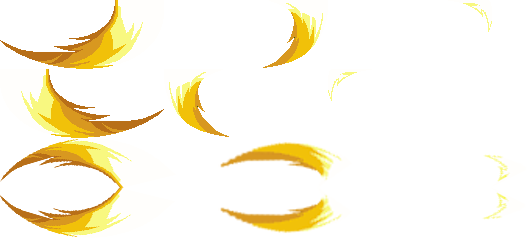
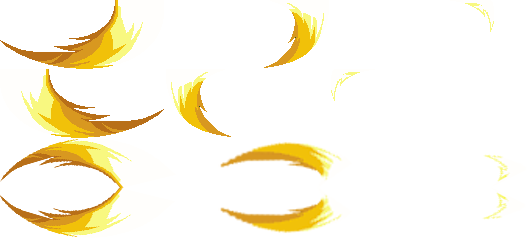
toush up FX spritesheet

diff --git a/enemy.js b/enemy.js
@@ -16,12 +16,14 @@ function Enemy(game, spriteSheet, fxSpritesheet, primaryAnimType, secondaryAnimT
     this.xSpeed = 0;
     this.ySpeed = 0;
     this.direction = 'Down';
+    this.attackFX = 'slash'
     this.state = "walkDown";
     this.safeDist = 63;
     this.attAnimationSpeed = 0.07;
     entityAnimationInit(this, spriteSheet, spriteSheet, primaryAnimType);
-    secondaryAnimationInit(this, fxSpritesheet, secondaryAnimType);
+    altAnimationInit(this, fxSpritesheet, secondaryAnimType);
     this.currAnimation = this.animations[this.state];
+    this.currAltAnimation = this.altAnimations[this.attackFX + this.direction];
     this.hitbox = new Hitbox(this.x, this.y, hitboxHeight, hitboxWidth, true);
     this.hurtbox = new Hitbox(0, 0, 0, 0, false);
 }
@@ -52,6 +54,7 @@ Enemy.prototype.update = function() {
 Enemy.prototype.draw = function() {
     if(!this.game.onTitleScreen && !this.game.gameOver) {
         this.currAnimation.drawFrame(this.game.clockTick, this.ctx, this.x, this.y);
+        if(this.currAltAnimation) this.currAltAnimation.drawFrame(this.game.clockTick, this.ctx, this.x, this.y);
         Entity.prototype.draw.call(this);
     }
 };
@@ -116,6 +119,7 @@ function updateEnemyAnimation(enemy) {
 
     if(!enemy.isAttacking || enemy.currAnimation.elapsedTime == 0) {
         direction = getDirToFacePlayer(enemy);
+        enemy.currAltAnimation = enemy.altAnimations[enemy.attackFX + direction];
         if(distance(enemy.game.player, enemy) > enemy.safeDist) {//should the enemy be walking towards the player?
             action = 'walk';
             enemy.isAttacking = false;

diff --git a/main.js b/main.js
@@ -173,7 +173,7 @@ function entityAnimationInit(entity, spritesheetSword, spritesheetBow, type) {
  * @param spritesheet weapon FX spritesheet
  * @param type determines which animation to attach to entity
  */
-function secondaryAnimationInit(entity, spritesheet, type) {
+function altAnimationInit(entity, spritesheet, type) {
     let animations = [];
     
     //Universal FX
@@ -181,10 +181,10 @@ function secondaryAnimationInit(entity, spritesheet, type) {
     
     switch(type) {
         case 1: //Slash animation
-            animations['slashRight'] = new Animation(spritesheet, 0, 0, 164, 69, 656, entity.attAnimationSpeed, 4, true, 1);
-            animations['slashLeft'] = new Animation(spritesheet, 0, 69, 164, 69, 656, entity.attAnimationSpeed, 4, true, 1);
-            animations['slashUp'] = new Animation(0, 138, 176, 50, 704, entity.attAnimationSpeed, 4, true, 1);
-            animations['slashDown'] = new Animation(0, 188, 176, 50, 704, entity.attAnimationSpeed, 4, true, 1);
+            animations['slashRight'] = new Animation(spritesheet, 0, 0, 165, 68, 660, entity.attAnimationSpeed, 4, true, 1);
+            animations['slashLeft'] = new Animation(spritesheet, 0, 70, 165, 68, 660, entity.attAnimationSpeed, 4, true, 1);
+            animations['slashUp'] = new Animation(spritesheet, 0, 139, 176, 49, 704, entity.attAnimationSpeed, 4, true, 1);
+            animations['slashDown'] = new Animation(spritesheet, 0, 189, 176, 49, 704, entity.attAnimationSpeed, 4, true, 1);
             break;
     }
 

diff --git a/maps.js b/maps.js
@@ -110,8 +110,8 @@ function mapSetUp(game, assetManager, mapName) {
             game.clearEntities();
             forestMapGenTerrain(game, assetManager);
             map = new Map(game, assetManager.getAsset(forestMapPath), mapDimension, mapDimension, forestGenerateEnemy);
-            game.enemyCount = 0;
-            game.spawnMax = 0;
+            game.enemyCount = 10;
+            game.spawnMax = 10;
             break;
         case 'desert':
             game.clearEntities();
@@ -156,7 +156,8 @@ function forestMapGenTerrain(game, assetManager) {
 
 function forestGenerateEnemy(game, assetManager) {
     let enemy = undefined;
-    switch (Math.floor(Math.random() * 2)) {
+    // switch (Math.floor(Math.random() * 2)) {
+    switch (1) {
         case 0:
             enemy = new MaleKnightSpear(game, assetManager.getAsset(spearGuyPath), assetManager.getAsset(fxPath));
             break;
